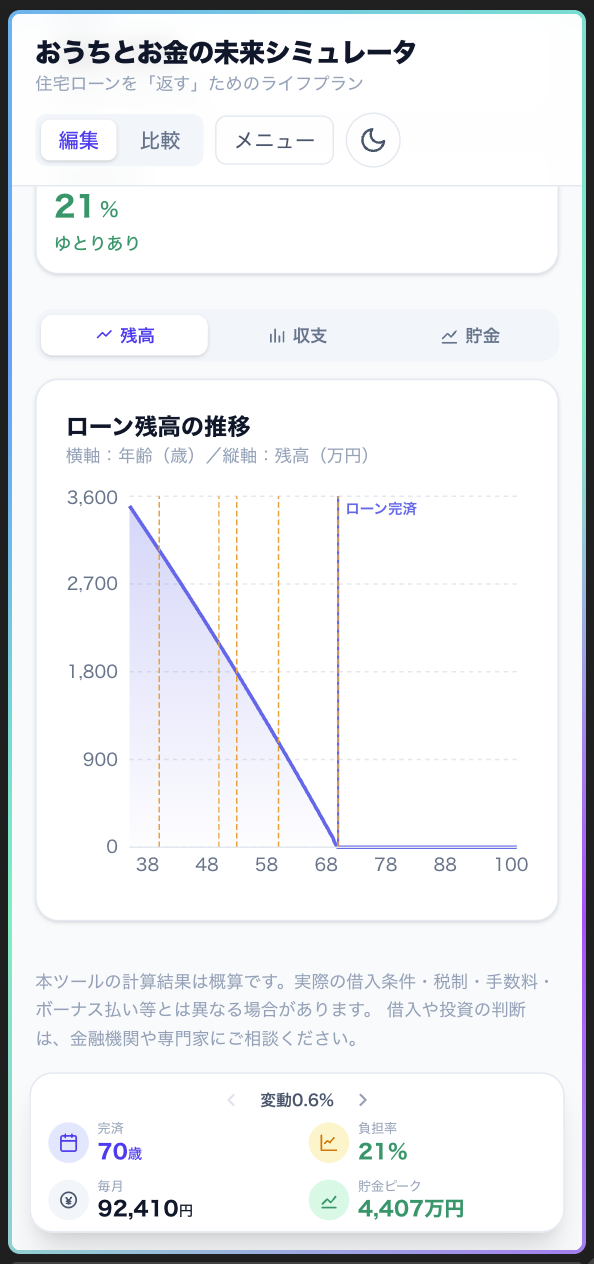
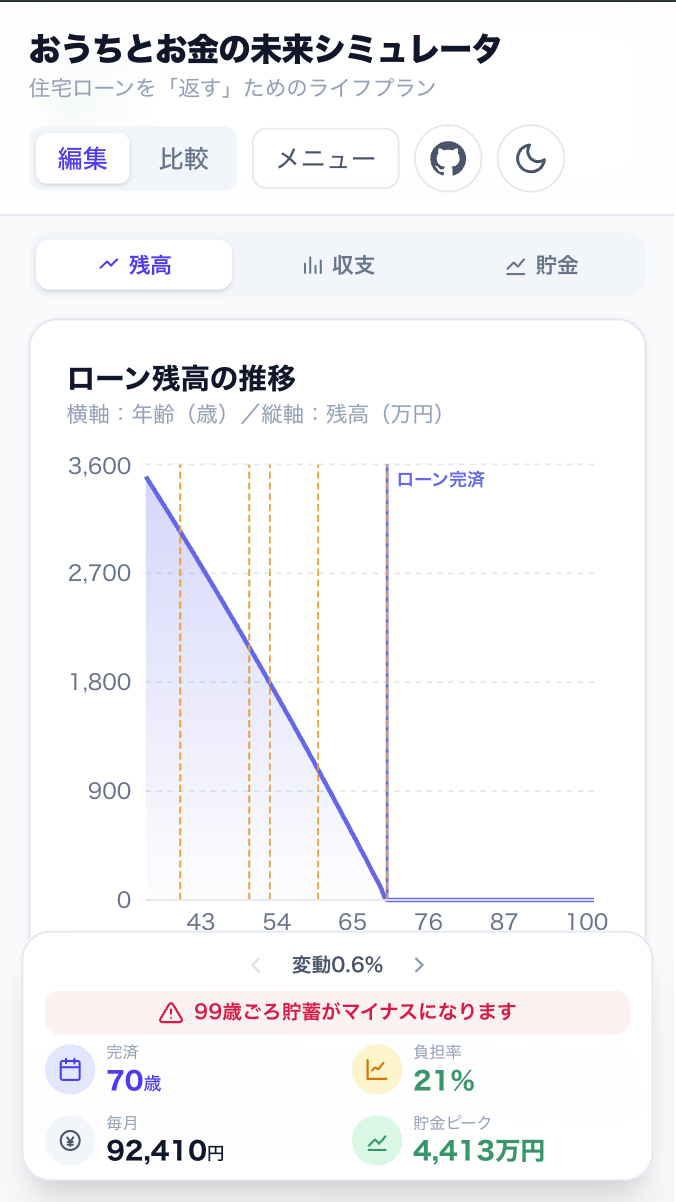
README更新

diff --git a/src/components/InputPanel.tsx b/src/components/InputPanel.tsx
@@ -1309,11 +1309,10 @@ export function InputPanel({
                       onClick={() => toggleExpenseGroup(g.name!)}
                       className="flex flex-1 items-center justify-between gap-2 text-left"
                     >
-                      <span className="flex min-w-0 flex-1 flex-wrap items-center gap-1.5 text-sm font-semibold text-slate-700 dark:text-slate-200">
-                        <FolderIcon />
-                        <span>{g.name}</span>
-                        <span className="shrink-0 text-xs font-normal text-slate-400">
-                          {g.items.length}項目
+                      <span className="flex min-w-0 flex-1 flex-wrap items-center gap-x-1.5 gap-y-0.5 text-sm font-semibold text-slate-700 dark:text-slate-200">
+                        <span className="flex min-w-0 items-center gap-1.5">
+                          <FolderIcon />
+                          <span className="truncate">{g.name}</span>
                         </span>
                         {allCommon ? (
                           <CommonBadge />
@@ -1601,11 +1600,10 @@ export function InputPanel({
                       onClick={() => toggleEventGroup(g.name!)}
                       className="flex flex-1 items-center justify-between gap-2 text-left"
                     >
-                      <span className="flex min-w-0 flex-1 flex-wrap items-center gap-1.5 text-sm font-semibold text-slate-700 dark:text-slate-200">
-                        <FolderIcon />
-                        <span>{g.name}</span>
-                        <span className="shrink-0 text-xs font-normal text-slate-400">
-                          {g.items.length}件
+                      <span className="flex min-w-0 flex-1 flex-wrap items-center gap-x-1.5 gap-y-0.5 text-sm font-semibold text-slate-700 dark:text-slate-200">
+                        <span className="flex min-w-0 items-center gap-1.5">
+                          <FolderIcon />
+                          <span className="truncate">{g.name}</span>
                         </span>
                         {allCommon ? (
                           <CommonBadge />

diff --git a/README.md b/README.md
@@ -12,10 +12,13 @@
 
 - **完済までの残高推移**をひと目で確認（ライフイベントも縦線で表示）
 - **年間キャッシュフロー**（収入・暮らし・ローン・イベント）を可視化
-- **貯金の推移**を自動シミュレーション（定年・年金・退職金まで考慮）
+- **貯金の推移**を自動シミュレーション（定年・年金・退職金まで考慮）。貯金がマイナスになる時期は警告でお知らせ
 - **手取りを自動概算**（給与所得控除・社会保険料・所得税・住民税の簡易計算）
-- **毎月の支出を追加式**で管理（定番をワンタップ追加＋自由ラベル・期間指定も可）
+- **収入・支出・ライフイベントを追加式**で管理（定番をワンタップ＋自由に追加、金額・期間は編集シートでまとめて調整）
+- **項目をグループにまとめて整理**（折りたたみ表示・小計つき）
 - **ライフイベント**を単発／定期（N年ごと）で登録
+- **プラン追加ウィザード**で、代表的な入力から教育費・修繕費・車の費用などを自動で用意
+- **共通設定（📌）**で、全プランで共通の項目をまとめて管理（グループ単位の切り替えも可能）
 - **複数プランを並べて比較**（JSON で保存・読み込み）
 - 持ち家・賃貸の切り替え／繰り上げ返済／ボーナス払いにも対応
 - ライト／ダークテーマ・スマホ表示対応
@@ -28,7 +31,7 @@
 
 ### 2. 毎月の支出を整える
 
-生活費や保険などをスライダーで調整。「定番から追加」で食費・固定資産税などをワンタップ、自由ラベルで独自の項目も追加できます。「○年後から○年間」と期間の指定もできます。
+「定番から追加」で食費・固定資産税などをワンタップ、「自由に追加」で独自の項目も登録できます。各項目の「編集」から、金額・期間（○年後から○年間）・グループをまとめて調整。教育費のように関連する項目はグループにまとめて折りたたみ表示できます。
 
 ![毎月の支出](docs/resources/04-expense.png)
 
